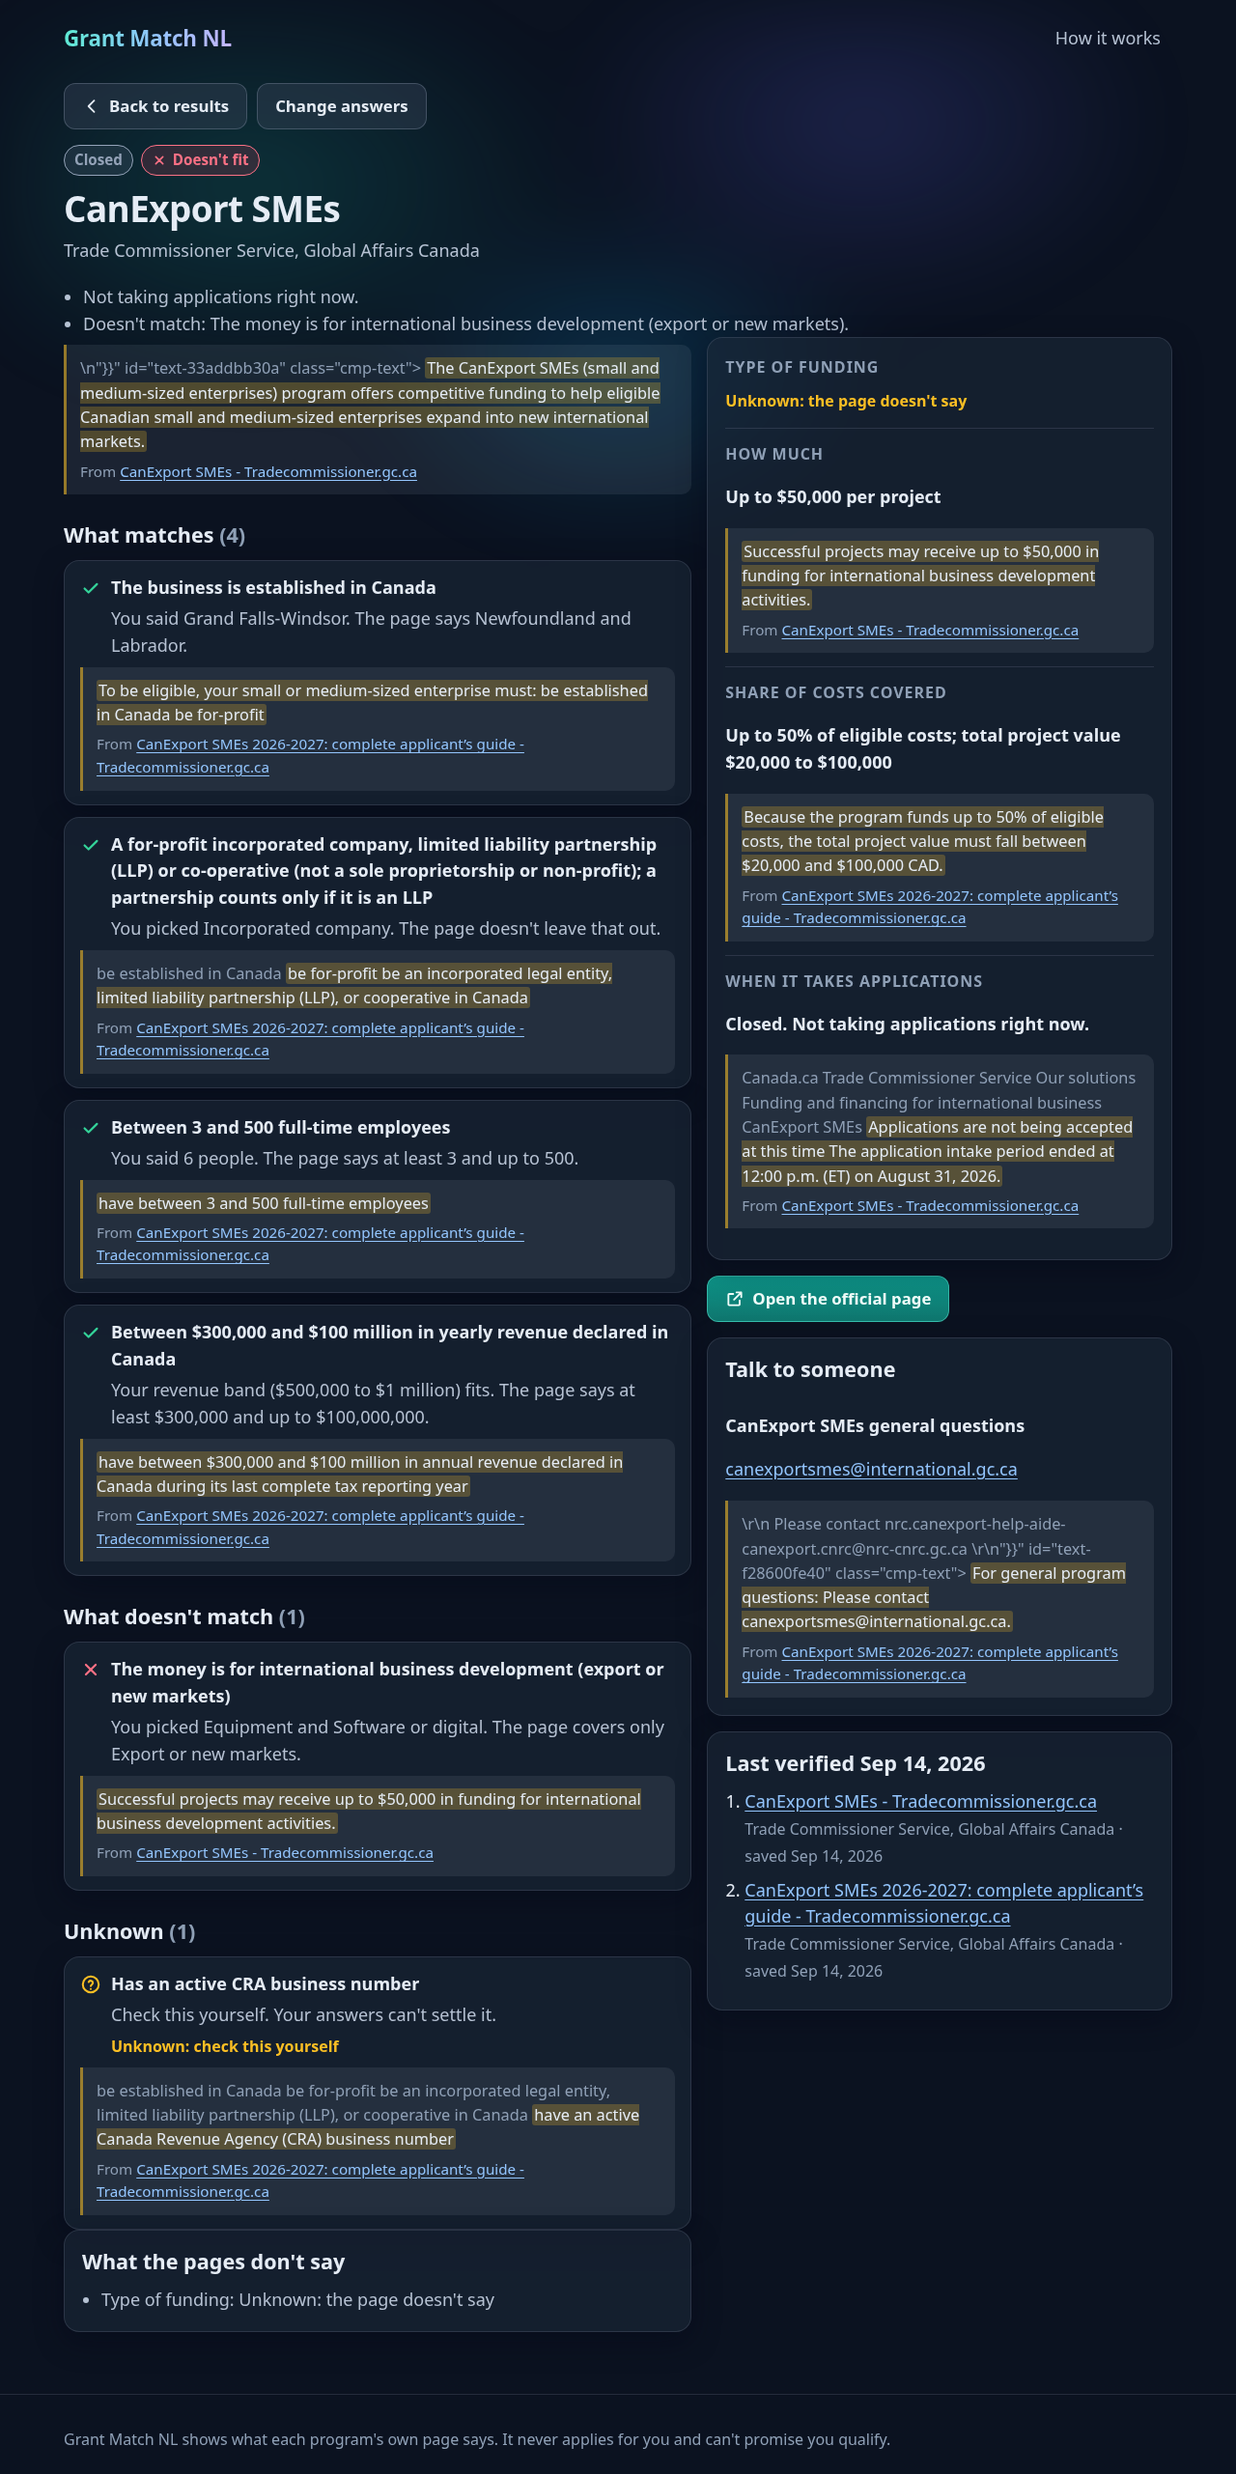
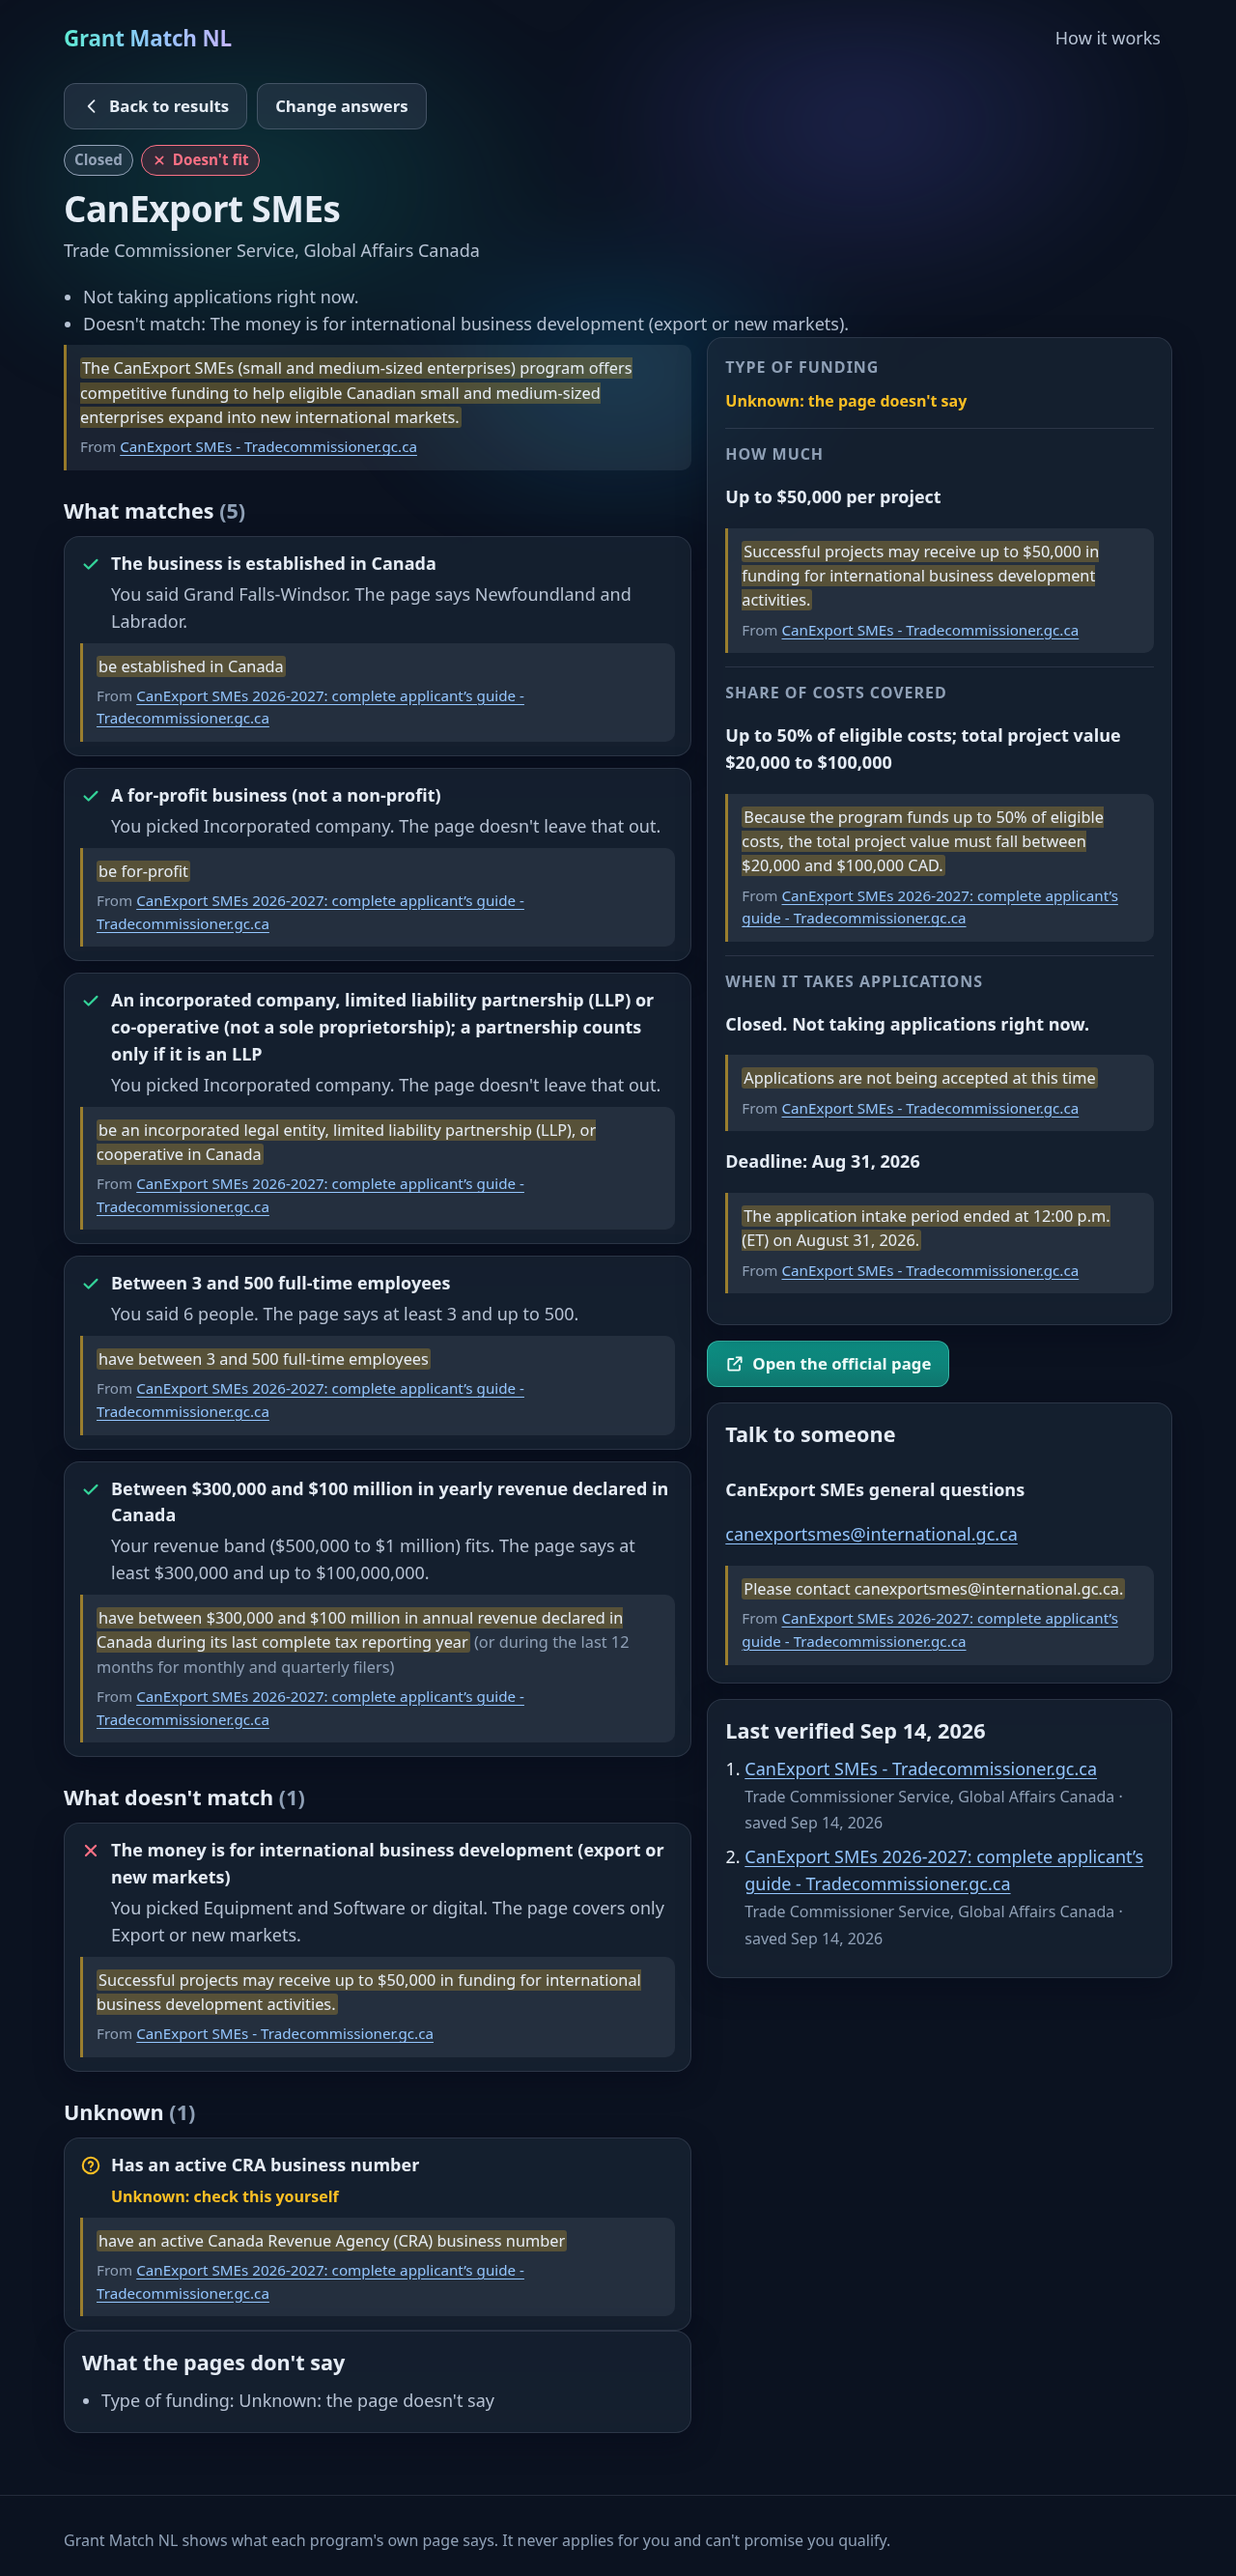
gm2 final round: fresh real-data shots and report (block-bounded context, one-block CanExport quotes)
R1 and R2 fixed on screen; Business Growth at 390 is 7,677 CSS px, about 6% shorter than round 5 (length is now
the quotes themselves). Worker 15/0/1 SAMPLE and 1/0 real (27 programs), Playwright 200 passed x2, all exit 0.

Claude-Session: https://claude.ai/code/session_0141sfEVb69XdAiYaM6FZYLz

Changed region(s): [[0.0312, 0.0312, 0.9062, 0.9368]]

diff --git a/docs/build-report-gm2.md b/docs/build-report-gm2.md
@@ -113,6 +113,57 @@ confirmed clean (`git diff --quiet`) and the suite re-run green. Scripts: `.scra
   `print.css`, 2 pages without. Re-run → **red** on the one-page check itself: "printed pages, Expected: 1, Received:
   2" (the short printout: red on the hidden button). Restored → both pass.
 
+## Round 9 (final) — block-bounded context, one-block CanExport quotes, last real-data look: DONE
+Every step gated on its exit code (a non-zero exit stopped the step).
+1. **Merged main at `44d19fc`** (merge `aa0556c`, exit 0; DECISIONS #26).
+2. **CanExport quotes inside one block each (`137d1c9`).** I used gm1's `blockText` from `rig/gm1` (read with `git show` into `.scratch/`,
+   not merged early) to print the saved pages' blocks. It found **four** CanExport quotes joining blocks, not two:
+   - intake: blocks 21 + 22, "Applications are not being accepted at this time" + "The application intake period ended…";
+   - location: blocks 77–79, "…must:" + "be established in Canada" + "be for-profit";
+   - structure: blocks 79 + 80, "be for-profit" + the incorporated/LLP/co-op line;
+   - contact: blocks 449 + 450, "For general program questions:" + "Please contact canexportsmes@…".
+
+   Now: intake quotes "Applications are not being accepted at this time". The August 31, 2026 end is the intake **deadline** with its
+   own one-block quote ("The application intake period ended at 12:00 p.m. (ET) on August 31, 2026."), which the schema allows on a
+   closed intake. Location quotes "be established in Canada". "be for-profit" is its own structure criterion (`not_in: [nonprofit]`),
+   so that fact keeps its quote, and structure (`not_in: [sole_proprietor, not_registered]`, `unclear: [partnership]`) quotes the one
+   line. The contact quotes "Please contact canexportsmes@international.gc.ca.".
+   **Gates:** `check:data` exit 0 ("every quote verified (27 real programs, 10 SAMPLE)"); `git diff` shows 0 `sha256`/`text_sha256`
+   lines; a re-scan finds 13 CanExport quotes, 0 not inside a single block.
+   **Found, not changed (programs outside this round's brief):** the same scan over all 60 `ca-*` quotes finds three more list quotes
+   whose lead-in and items are separate blocks: REGI `use-of-funds` (5 blocks, "You can use this funding to:" + four items), Canada
+   Summer Jobs `cost_share` (2, "…eligible to receive funding for:" + "up to 50%…"), NRC IRAP `structure` (4, "NRC IRAP does not
+   support:" + three items). Each would split the way CanExport did; the lead decides whether to do that.
+3. **Merged `rig/gm1` at `697aa25`** (merge `871c163`, exit 0), once `git log rig/gm1` showed the commit dropping "(one of 15 CBDCs in
+   the province)". I watched for it with a background `git log -p` loop, no prompts. `build:data` exit 0, `check:data` exit 0. On
+   the built bundle: 53 contact labels, 0 contain "15 CBDCs"; 288 real quotes, 251 with empty context; 0 contacts with context.
+4. **Last real-data look** on `?mock=1&data=real&now=2026-09-14T12:00:00Z`. All old `docs/shots/gm2-real-*.png` removed (including
+   round 5's Daycare results, not in this list) and replaced by 12 fresh shots:
+   `gm2-real-{results-apco,results-auto,detail-business-growth,detail-canexport,detail-cbdc-general-business-loan,print-apco}-{390,1280}.png`.
+   I looked at each.
+   - **Business Growth:** "The program's pages list these offices. Call the one nearest you." sits above six contacts. Each office's
+     quote is its own line only ("Central: 709.256.1480", "Western: 709.637.2628"), with no context. **R1 is fixed:** no office shows
+     another office's number next to its call button.
+   - **CanExport (closed):** "Closed. Not taking applications right now." with the one-block quote and no context, then "Deadline: Aug 31,
+     2026" with its own quote. **R2 is fixed:** no breadcrumb, no JSON, no run-on anywhere on the page. The for-profit and structure
+     items show separately; the revenue quote's context is the rest of its own list item ("(or during the last 12 months for monthly
+     and quarterly filers)").
+   - **CBDC General Business Loan:** labels "CBDC Central, Grand Falls-Windsor", "CBDC Gander Area, Gander", "CBDC Emerald, Baie Verte",
+     "Emerald’s satellite office, Springdale", under the multi-contact line. Office quotes stay long (address, "View on Google Maps",
+     phone), as DECISIONS #26 says, because they carry the town.
+   - **APCO printout:** one Letter page, six programs in core's new evidence-tier order (CBDC Innovation Loan first), every phone whole
+     on its line, "and 8 more on the results page".
+   - **R5, page length:** Business Growth at 390 is **7,677 CSS px (screenshot 780×15,354 at 2x)**, against round 5's 780×16,348
+     (about 8,174 CSS px): **about 6% shorter**, not the big cut DECISIONS #24 hoped for. The shots show why. The remaining length is
+     the quotes themselves, not context: the ~400-character eligibility paragraph is quoted in full by two criteria (structure and
+     commercial viability), the 200-character amount sentence is quoted twice (amount and cost share), and there are six contact
+     blocks. Shortening further means shorter quotes in gm1's data (one block or sentence per fact, as done for CanExport) or a
+     collapsed quote in the app. The lead decides.
+5. **Suites on the merged tree** (exit codes checked):
+   - Worker, SAMPLE: **exit 0, 15 passed, 0 failed, 1 skipped**.
+   - Worker, `GM_REAL=1`: **exit 0, 1 passed, 0 failed** on 27 programs, 154 criteria, 53 sources.
+   - Playwright: **exit 0, 200 passed, 0 failed**, every test run twice on chromium and webkit at 390 and 1280; 32 skipped by design.
+
 ## Round 8 — one line above more than one contact: DONE
 Merged main at `ebb66a2` (merge `a6b3441`; API §12 and DECISIONS #25: contact labels carry office and town only, and a neutral line
 above multiple contacts). `build:data`: 27 real programs, 10 SAMPLE.
